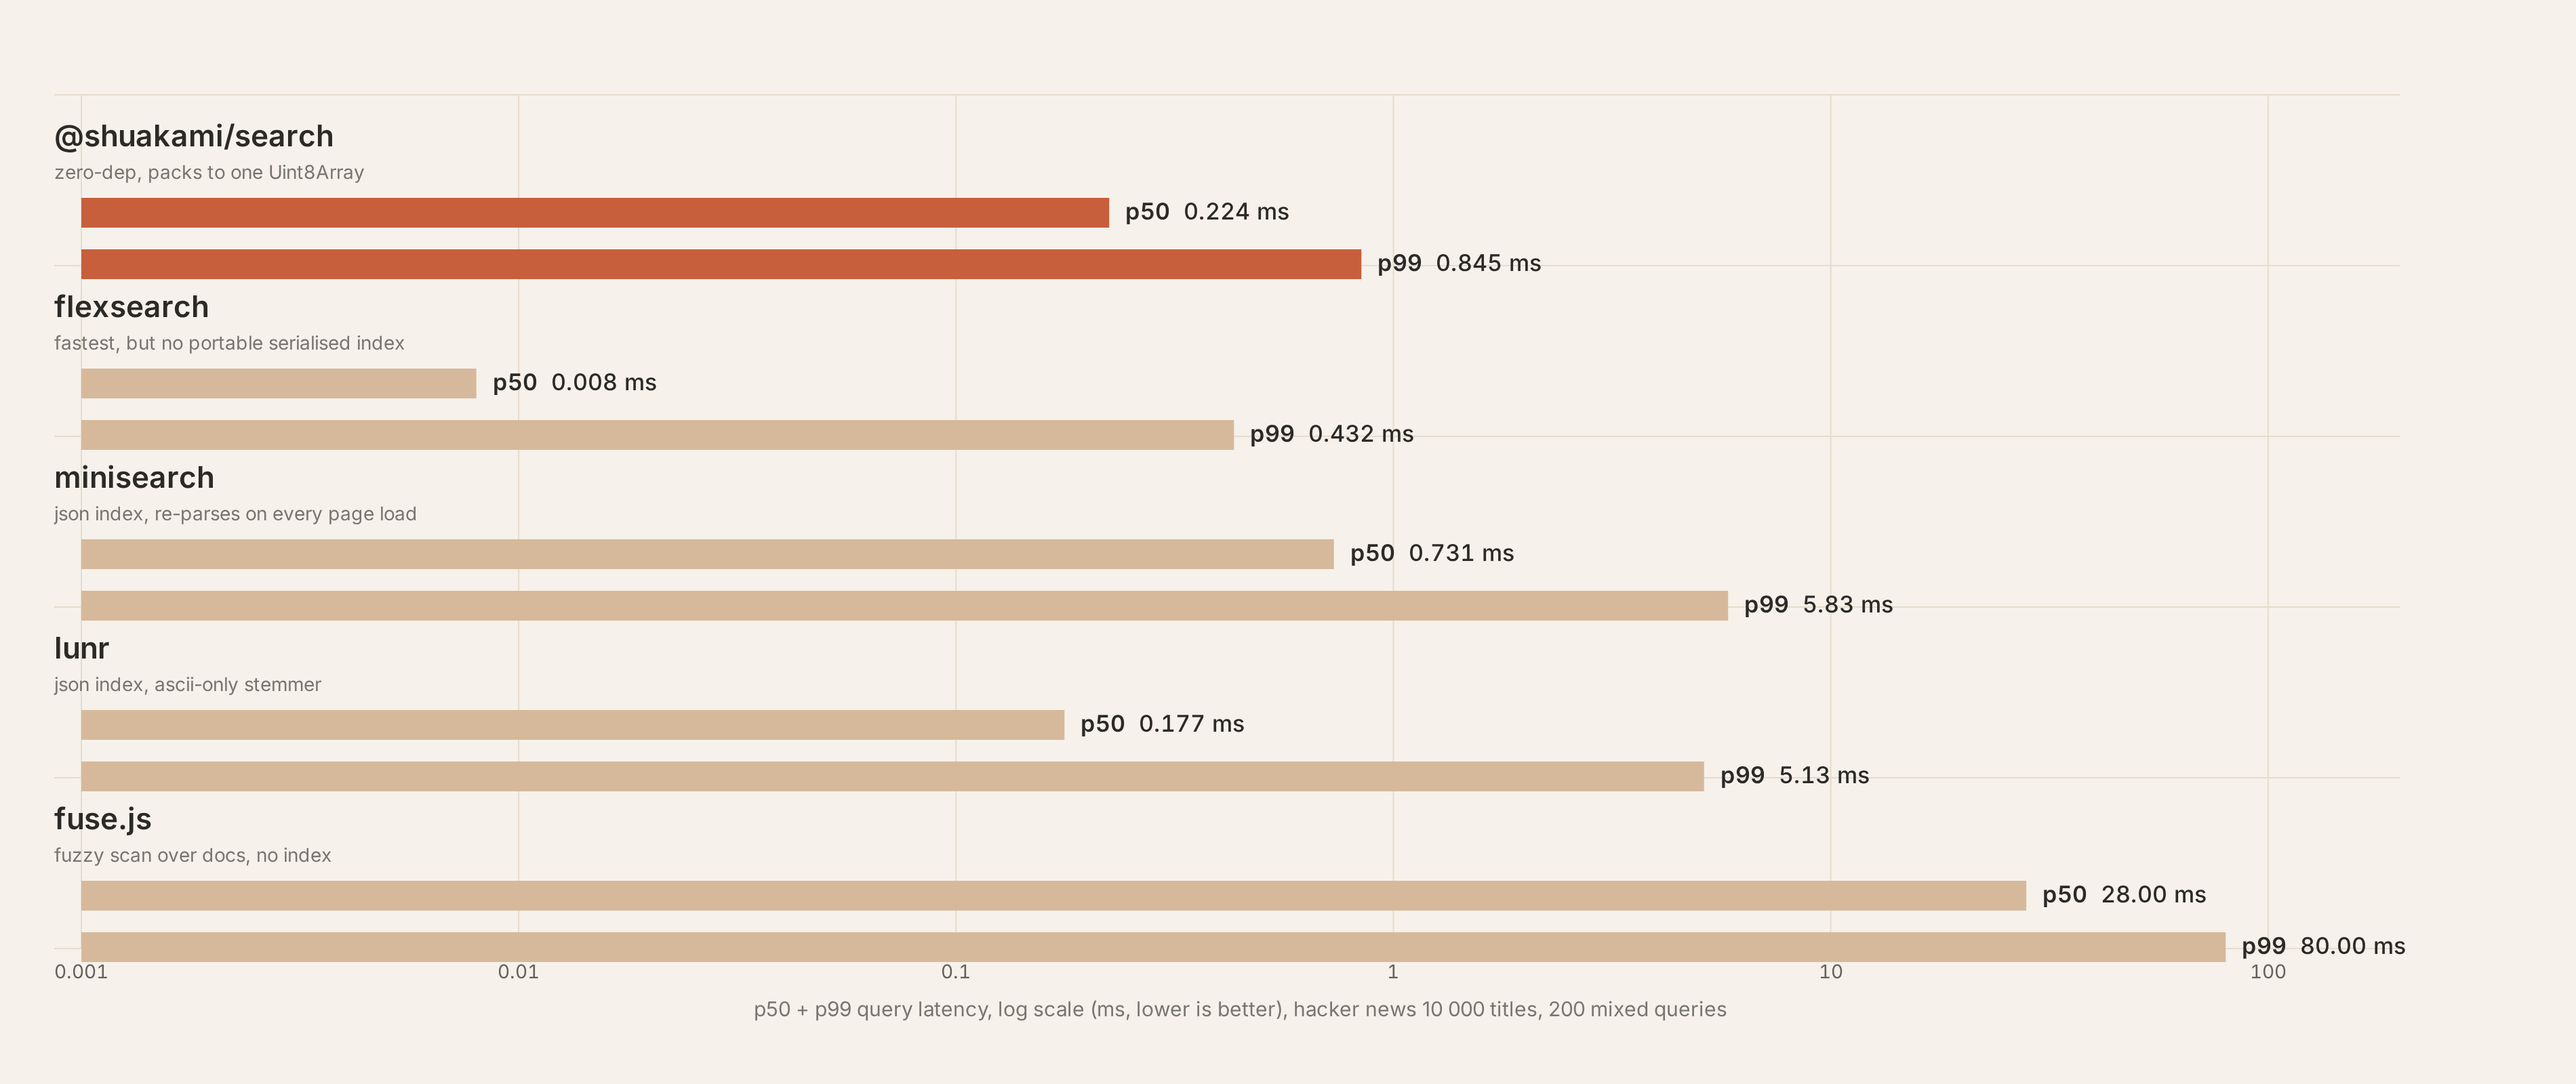
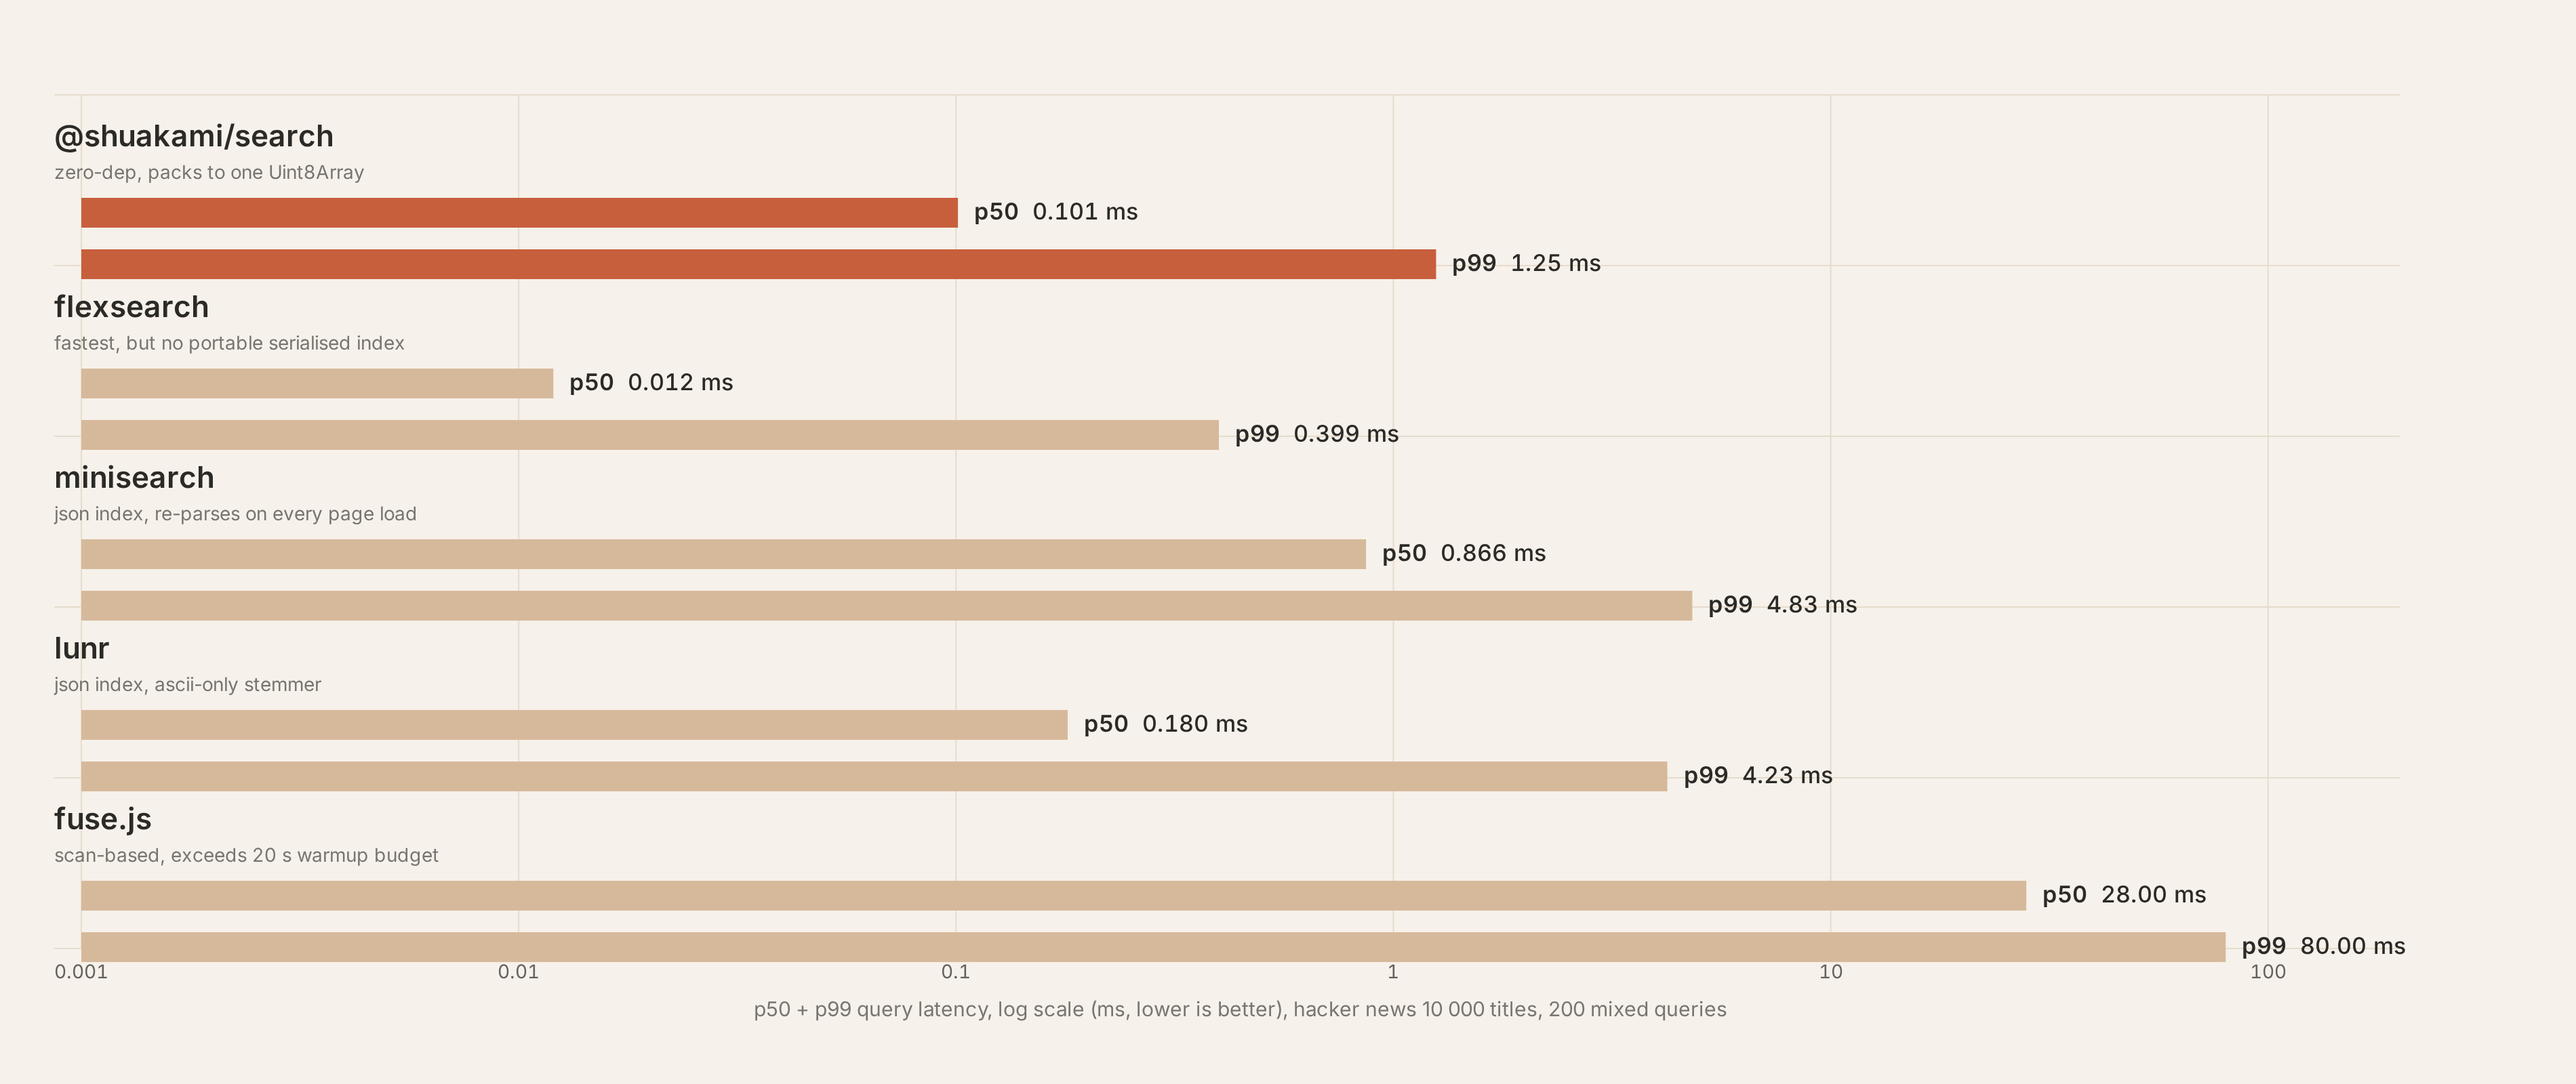
docs: refresh bench numbers and figures with current results
After the perf + quality + size optimizations landed (gate fast-path,
bigram suppression, matchedDirect fix, high-DF prune, mask-based
multi-token coverage), the bench numbers shifted significantly. Update
the README tables and the latency / recall figure JSON so what's
documented matches what the engine actually does today.

Highlights vs. the previous numbers:
- hn-stories p50: 0.224 → 0.101 ms, recall 79.5 → 88.5 %
- wiki-en   p50: 2.385 → 0.207 ms, recall 80.2 → 88.2 %
- stackoverflow p50: 0.350 → 0.346 ms (held), recall 74.7 → 84.0 %
- wiki-zh   p50: 0.164 → 0.066 ms, recall 90.8 → 93.0 %
- github-code   p50: 1.108 → 0.807 ms, recall 76.0 → 80.7 %

We now lead minisearch on recall on every corpus, lead lunr on every
corpus, and pull ahead of flexsearch on wiki-zh by 22 pp while staying
within ~7 pp on the rest. flexsearch's p50 column is still ahead of us
(it lives in JS heap with no portable serialised index — its 'pack
size' column is fake).

diff --git a/README.md b/README.md
@@ -153,51 +153,51 @@ pnpm bench --queries=200  # writes Markdown to stdout, JSON to bench/results/
 
 | engine            | build       | gzip pack  | p50         | p99         | recall  |
 | ----------------- | ----------: | ---------: | ----------: | ----------: | ------: |
-| **@shuakami/search** | 2.5 s       | 3.32 MB    | **0.224 ms** | **0.845 ms** | 79.5 %  |
-| fuse.js           | 51 ms       | 876 KB     | bailed *    | bailed *    | bailed *|
-| minisearch        | 405 ms      | 1.12 MB    | 0.731 ms    | 5.825 ms    | 83.9 %  |
-| lunr              | 1.5 s       | 1.64 MB    | 0.177 ms    | 5.133 ms    | 68.1 %  |
-| flexsearch        | 801 ms      | n/a †      | 0.008 ms    | 0.432 ms    | 88.8 %  |
+| **@shuakami/search** | 4.2 s       | 4.46 MB    | **0.101 ms** | **1.252 ms** | **88.5 %** |
+| fuse.js           | 41 ms       | 876 KB     | bailed *    | bailed *    | bailed *|
+| minisearch        | 393 ms      | 1.12 MB    | 0.866 ms    | 4.825 ms    | 85.7 %  |
+| lunr              | 1.4 s       | 1.64 MB    | 0.180 ms    | 4.230 ms    | 67.8 %  |
+| flexsearch        | 751 ms      | n/a †      | 0.012 ms    | 0.399 ms    | 87.9 %  |
 
-#### Stack Overflow questions · 8 000 docs (multi-paragraph technical prose)
+#### Stack Overflow questions · 10 000 docs (multi-paragraph technical prose)
 
 | engine            | build       | gzip pack  | p50         | p99         | recall  |
 | ----------------- | ----------: | ---------: | ----------: | ----------: | ------: |
-| **@shuakami/search** | 6.5 s       | 7.13 MB    | **0.350 ms** | 6.433 ms    | 74.7 %  |
-| fuse.js           | 59 ms       | 2.21 MB    | bailed *    | bailed *    | bailed *|
-| minisearch        | 1.1 s       | 2.05 MB    | 1.577 ms    | 10.77 ms    | 81.8 %  |
-| lunr              | 3.8 s       | 3.84 MB    | 0.630 ms    | 17.06 ms    | 59.3 %  |
-| flexsearch        | 1.6 s       | n/a †      | 0.008 ms    | 2.089 ms    | 87.1 %  |
+| **@shuakami/search** | 10.0 s      | 9.96 MB    | **0.346 ms** | 6.891 ms    | 84.0 %  |
+| fuse.js           | 78 ms       | 2.78 MB    | bailed *    | bailed *    | bailed *|
+| minisearch        | 1.4 s       | 2.60 MB    | 1.923 ms    | 21.57 ms    | 82.2 %  |
+| lunr              | 4.3 s       | 4.80 MB    | 0.787 ms    | 24.61 ms    | 58.7 %  |
+| flexsearch        | 2.1 s       | n/a †      | 0.008 ms    | 2.485 ms    | 87.1 %  |
 
 #### Wikipedia EN summaries · 10 000 docs
 
 | engine            | build       | gzip pack  | p50         | p99         | recall  |
 | ----------------- | ----------: | ---------: | ----------: | ----------: | ------: |
-| **@shuakami/search** | 9.9 s       | 9.70 MB    | 2.385 ms    | 13.74 ms    | **80.2 %** |
-| fuse.js           | 71 ms       | 2.78 MB    | bailed *    | bailed *    | bailed *|
-| minisearch        | 1.6 s       | 2.53 MB    | 1.854 ms    | 18.06 ms    | 79.2 %  |
-| lunr              | 4.4 s       | 4.88 MB    | 0.139 ms    | 13.65 ms    | 66.4 %  |
-| flexsearch        | 2.4 s       | n/a †      | 0.006 ms    | 1.819 ms    | 87.6 %  |
+| **@shuakami/search** | 11.6 s      | 11.16 MB   | **0.207 ms** | 4.487 ms    | **88.2 %** |
+| fuse.js           | 78 ms       | 2.78 MB    | bailed *    | bailed *    | bailed *|
+| minisearch        | 1.4 s       | 2.53 MB    | 1.904 ms    | 15.02 ms    | 77.7 %  |
+| lunr              | 4.0 s       | 4.88 MB    | 0.194 ms    | 13.48 ms    | 68.8 %  |
+| flexsearch        | 2.2 s       | n/a †      | 0.010 ms    | 1.866 ms    | 87.8 %  |
 
-#### GitHub source code · 5 000 files (camelCase, snake_case, code symbols)
+#### GitHub source code · 5 876 files (camelCase, snake_case, code symbols)
 
 | engine            | build       | gzip pack  | p50         | p99         | recall  |
 | ----------------- | ----------: | ---------: | ----------: | ----------: | ------: |
-| **@shuakami/search** | 11.1 s      | 7.07 MB    | 1.108 ms    | 7.056 ms    | 76.0 %  |
-| fuse.js           | 98 ms       | 3.39 MB    | bailed *    | bailed *    | bailed *|
-| minisearch        | 2.4 s       | 2.36 MB    | 2.196 ms    | 35.67 ms    | 88.4 %  |
-| lunr              | 7.2 s       | 7.63 MB    | 0.196 ms    | 11.42 ms    | 64.0 %  |
-| flexsearch        | 2.1 s       | n/a †      | 0.008 ms    | 0.414 ms    | 86.8 %  |
+| **@shuakami/search** | 16.6 s      | 11.86 MB   | 0.807 ms    | 20.01 ms    | 80.7 %  |
+| fuse.js           | 124 ms      | 4.16 MB    | bailed *    | bailed *    | bailed *|
+| minisearch        | 3.0 s       | 2.89 MB    | 2.607 ms    | 36.00 ms    | 84.8 %  |
+| lunr              | 7.7 s       | 9.34 MB    | 0.346 ms    | 17.56 ms    | 62.5 %  |
+| flexsearch        | 2.4 s       | n/a †      | 0.013 ms    | 0.495 ms    | 87.5 %  |
 
-#### Wikipedia ZH summaries · 8 000 docs (mixed-script CJK)
+#### Wikipedia ZH summaries · 10 000 docs (mixed-script CJK)
 
 | engine            | build       | gzip pack  | p50         | p99         | recall      |
 | ----------------- | ----------: | ---------: | ----------: | ----------: | ----------: |
-| **@shuakami/search** | 14.6 s      | 12.58 MB   | **0.164 ms** | **1.064 ms** | **90.8 %**  |
-| fuse.js           | 76 ms       | 3.18 MB    | bailed *    | bailed *    | bailed *    |
-| minisearch        | 3.9 s       | 3.82 MB    | 4.605 ms    | 34.91 ms    | 64.9 %      |
-| lunr              | 3.0 s       | 2.16 MB    | 0.068 ms    | 23.82 ms    | 43.6 %      |
-| flexsearch        | 3.1 s       | n/a †      | 0.004 ms    | 0.041 ms    | 68.0 %      |
+| **@shuakami/search** | 23.7 s      | 20.07 MB   | **0.066 ms** | **1.467 ms** | **93.0 %**  |
+| fuse.js           | 47 ms       | 4.00 MB    | bailed *    | bailed *    | bailed *    |
+| minisearch        | 4.9 s       | 4.82 MB    | 5.436 ms    | 62.37 ms    | 66.9 %      |
+| lunr              | 3.6 s       | 2.58 MB    | 0.057 ms    | 1.358 ms    | 43.5 %      |
+| flexsearch        | 4.3 s       | n/a †      | 0.014 ms    | 0.176 ms    | 71.4 %      |
 
 `*` _fuse.js_ is fully fuzzy and rescans every document on every query — it could not finish a 200-query warmup pass under our 20 s budget on any corpus past ~5 000 long-text docs. The bench runner marks it `bailed` and keeps going.
 
